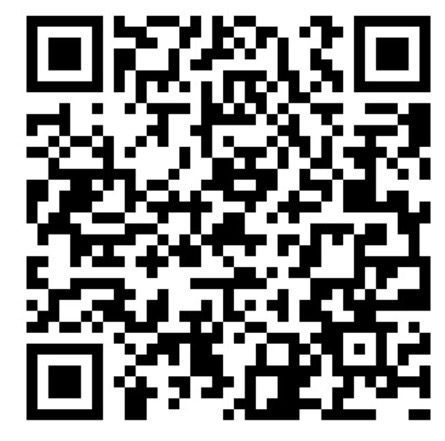
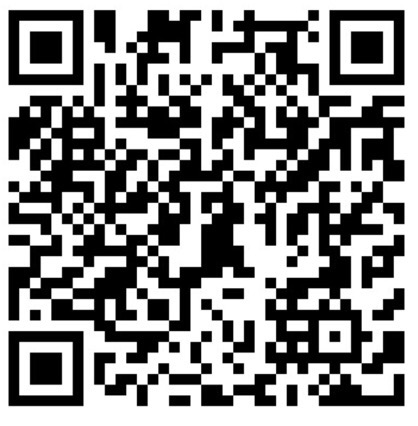
fix 替换二维码；增加几个打点信息

diff --git a/src/components/First.vue b/src/components/First.vue
@@ -32,6 +32,12 @@
               </ul>
             </div>
           </div>
+          <div class="detail-content">
+            <div class="detail-title">分享时间</div>
+            <div class="detail-main" style="padding-bottom: 12px">
+              2018.9.22日晚上8点
+            </div>
+          </div>
         </div>
       </card>
     </view-box>
@@ -92,6 +98,9 @@ export default {
   },
   beforeDestroy() {
     this.timeout && clearTimeout(this.timeout);
+  },
+  mounted() {
+    this.$http.get('/api/reportVisit', { params: { operate: 'viewFirst' } });
   },
   methods: {
     checkOrder(orderId) {
@@ -197,7 +206,6 @@ export default {
       padding: 3px;
     }
     ul {
-      padding-bottom: 12px;
       margin-left: 18px;
     }
     li {

diff --git a/src/components/Third.vue b/src/components/Third.vue
@@ -2,6 +2,7 @@
   <card :header="{title: '验证加入分享'}">
     <div slot="content" style="text-align: center; padding: 24px 0;">
       <img :src="qrcode" alt="二维码" style="width: 70%;">
+      <p>请长按识别二维码，加入分享群</p>
     </div>
   </card>
 </template>

diff --git a/src/components/Second.vue b/src/components/Second.vue
@@ -44,6 +44,9 @@ export default {
       showMsg: false
     };
   },
+  mounted() {
+    this.$http.get('/api/reportVisit', { params: { operate: 'viewSecond' } });
+  },
   watch: {
     mobile(value) {
       if (!value || /\d{11}/.test(value)) {
